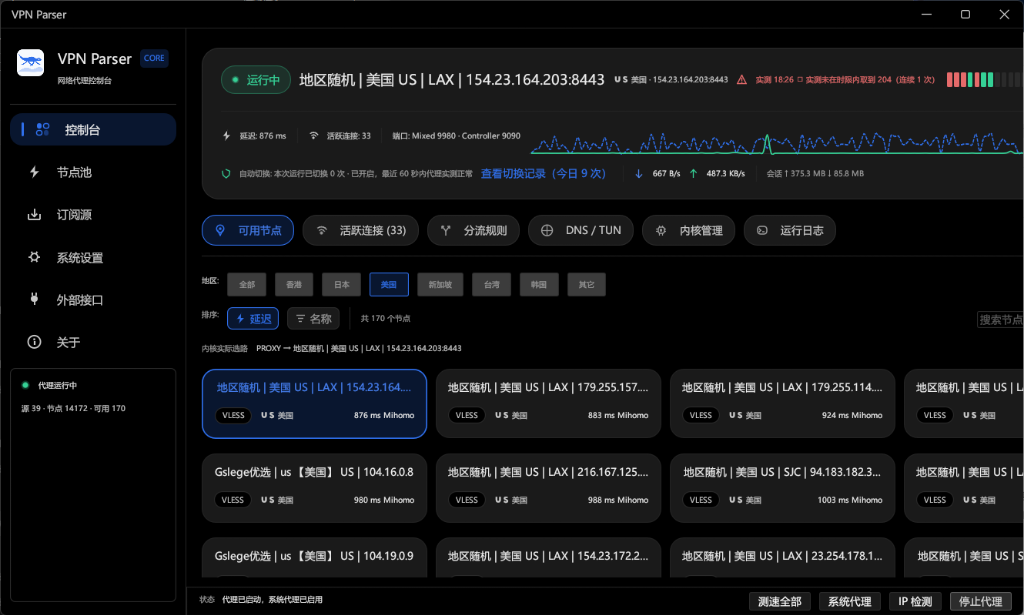
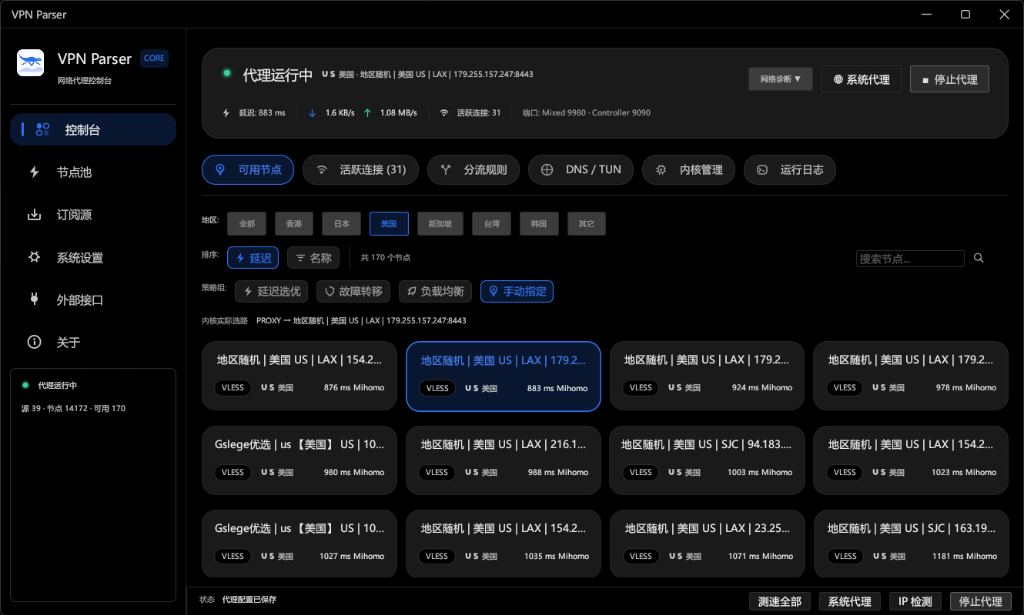
fix(gui): persist auto routing strategy and update README dashboard preview

diff --git a/src/gui/mod.rs b/src/gui/mod.rs
@@ -2504,13 +2504,7 @@ impl VpnApp {
     }
 
     /// 代理配置进 UI 状态的唯一入口。
-    ///
-    /// 界面上已经没有「自动选路 url-test」开关了（2026-10-06 按用户要求撤掉，理由是他
-    /// 那边内核 url-test 经常网络不稳定）。所以从库里读到的 `true` 一律归成 `false`：
-    /// 留一条没有开关可关的路径，等于让旧存值悄悄决定行为。内核侧的 url-test 生成分支
-    /// 还在（`proxy::mod` 有测试覆盖），要恢复只需把开关画回动作条。
-    fn set_proxy_config(&mut self, mut config: MihomoConfigOptions) {
-        config.url_test = false;
+    fn set_proxy_config(&mut self, config: MihomoConfigOptions) {
         self.proxy_config = config;
     }
 
